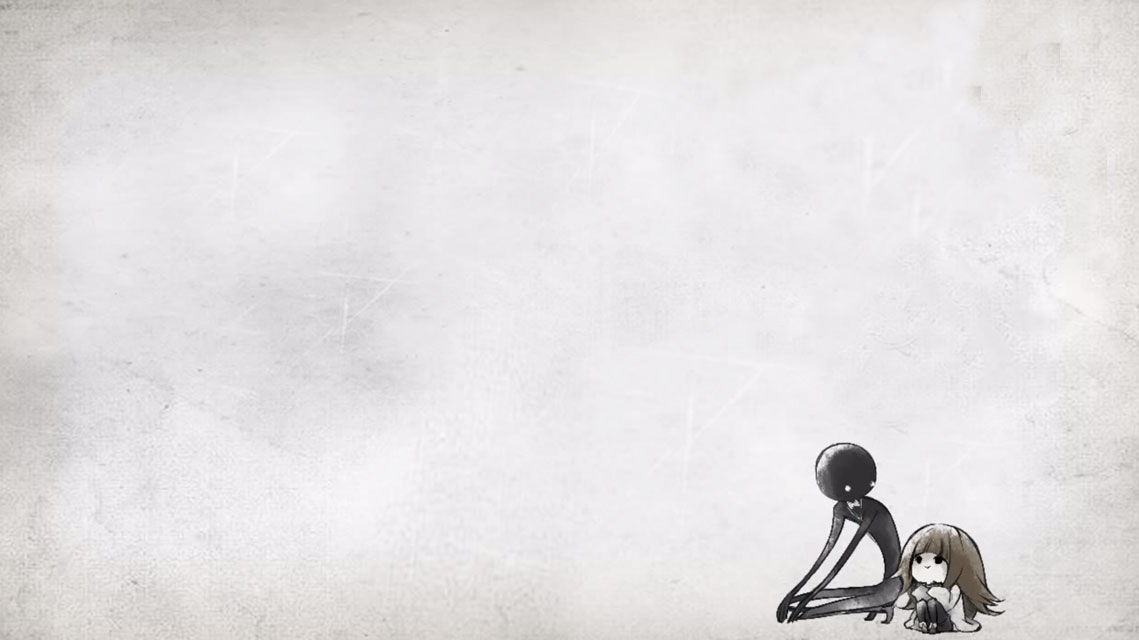
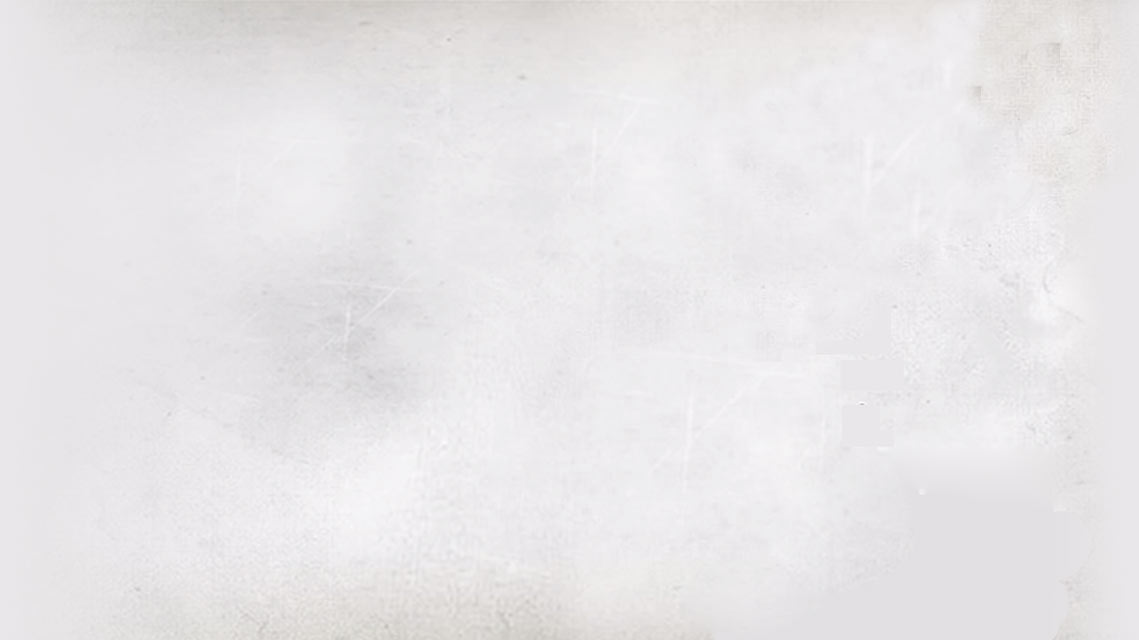
polish: update section3 background, distinguish between foreground and background, element centered.

diff --git a/app/index.html b/app/index.html
@@ -25,7 +25,6 @@
           <p class="item item_4">我们听过很多故事，但每一次都需要借助想象力补充画面和场景。</p>
           <p class="item item_4" >这三款游戏，不仅画面精美、音乐动听，而且每一次操作产生的美好反应，都能让你身临其境般的感受每一个故事。</p>
           <p class="item item_5" >请接受我们诚意的邀请，体验这三款游戏。</p>
-          <br>
           <img  class="item item_6" src="images/logo.png" alt="">
         </div>
         <div class="next"><i class="iconfont">&#xe646;</i></div>
@@ -76,6 +75,7 @@
         <div class="section section_3">
           <div class="pic pic_1"></div>
           <div class="item pic pic_2"></div>
+          <div class="pic pic_3"></div>
           <div class="line top"></div>
           <div class="line"><p>可小女孩还是想家。一天，他们发现，随着 Deemo 的弹奏一棵树苗正在长大。「只要小树苗一直长大，我就能回家了！」，小女孩想到。</p>
             <div class="btn js-install-btn">安装</div>

diff --git a/app/styles/_game.scss b/app/styles/_game.scss
@@ -191,7 +191,8 @@
     }
     &.section_3{
       .pic_1{background-image: url(../images/deemo/3.jpg); width: 100%;height: 80%;}
-      .pic_2{background-image: url(../images/deemo/3_1.png);position: absolute; top: 16px; right: 70px; height: 47%; width: 30%; background-size: 80%;}
+      .pic_2{background-image: url(../images/deemo/3_1.png);position: absolute; top: 50%; right: 50%; height: 79px; width: 70px; margin-right: -70px; margin-top: -140px;}
+      .pic_3{background-image: url(../images/deemo/3_2.png);position: absolute; top: 50%; right: 50%; height: 115px; width: 100px; margin-right: -60px; margin-top: -100px;}
     }
     &.section_4{
       .pic{background-image: url(../images/deemo/4.jpg); width: 100%;height: 90%}

diff --git a/app/styles/_fonts.scss b/app/styles/_fonts.scss
@@ -1,9 +1,9 @@
 @font-face {font-family: 'iconfont';
-src: url('fonts/iconfont.eot'); /* IE9*/
-src: url('fonts/iconfont.eot?#iefix') format('embedded-opentype'), /* IE6-IE8 */
-url('fonts/iconfont.woff') format('woff'), /* chrome、firefox */
-url('fonts/iconfont.ttf') format('truetype'), /* chrome、firefox、opera、Safari, Android, iOS 4.2+*/
-url('fonts/iconfont.svg#uxiconfont') format('svg'); /* iOS 4.1- */
+src: url('fonts/iconfont.eot');
+src: url('fonts/iconfont.eot?#iefix') format('embedded-opentype'),
+url('fonts/iconfont.woff') format('woff'),
+url('fonts/iconfont.ttf') format('truetype'),
+url('fonts/iconfont.svg#uxiconfont') format('svg');
 }
 .iconfont{
 	font-family:"iconfont" !important;

diff --git a/app/styles/_pages.scss b/app/styles/_pages.scss
@@ -63,11 +63,6 @@
             margin: 7px 0;
         }
 
-        .item_4,
-        .item_5 {
-            display: inline-block;
-        }
-
         img{
             width: 20%;
             margin: 0 auto;
